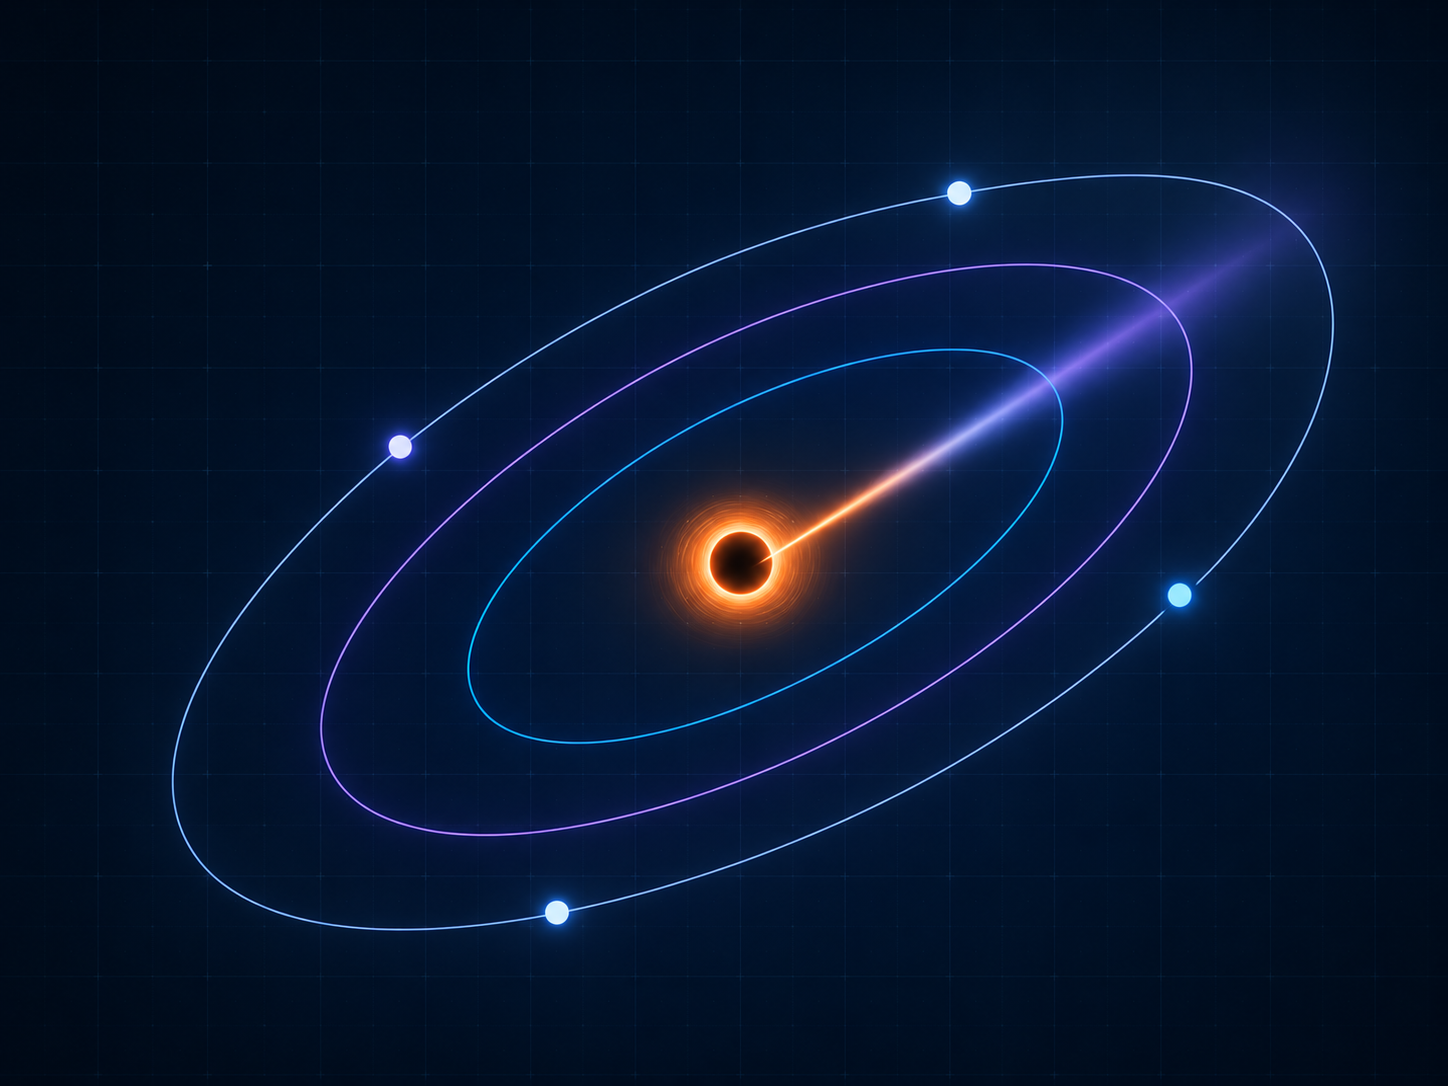
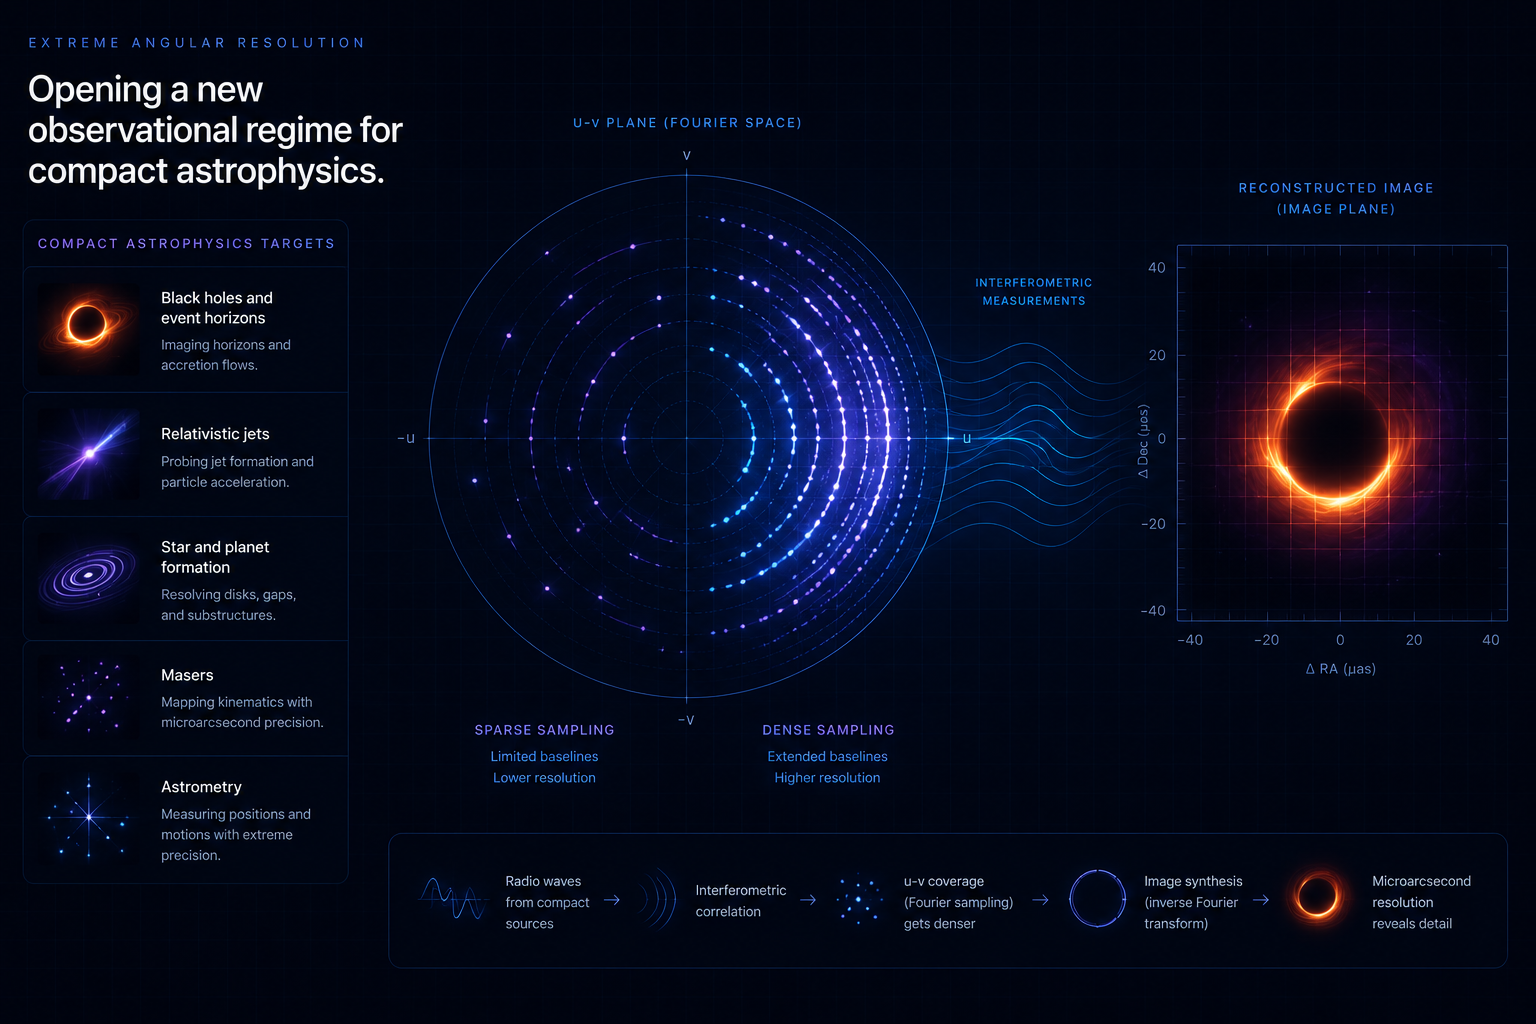
polish

diff --git a/science.html b/science.html
@@ -31,25 +31,12 @@
     </div>
   </section>
 
-  <section class="section science-signature">
-    <div class="science-signature-copy">
-      <div class="kicker">Extreme angular resolution</div>
-      <h2>Opening a new observational regime for compact astrophysics.</h2>
-      <p>
-        The near-term SHARP concept uses black-hole imaging as a focused science driver
-        for testing space-based very-long-baseline interferometry at millimetre and
-        sub-millimetre wavelengths.
-      </p>
-      <p>
-        The broader Space Array vision could eventually support a wider science programme:
-        sharper views of black holes, relativistic jets, compact disks, masers, astrometry,
-        and other compact structures that require angular resolution beyond Earth-sized baselines.
-      </p>
-    </div>
-
-    <div class="science-instrument-visual">
-      <img class="science-visual-img" src="assets/science-regime-visual.png" alt="">
-    </div>
+  <section class="section science-signature science-signature-image-only">
+    <img
+      class="science-regime-full-image"
+      src="assets/science-regime-visual.png"
+      alt="Opening a new observational regime for compact astrophysics"
+    >
   </section>
 
   <section class="grid section science-case-grid">

diff --git a/styles.css b/styles.css
@@ -2033,3 +2033,18 @@ ul.clean,
     height: 56px;
   }
 }
+
+/* Science page: use one full image for the observational-regime section */
+.science-signature-image-only {
+  display: block;
+  margin-top: 5rem;
+}
+
+.science-regime-full-image {
+  width: 100%;
+  height: auto;
+  display: block;
+  border-radius: 1.5rem;
+  border: 1px solid rgba(116, 192, 252, 0.18);
+  box-shadow: 0 28px 90px rgba(0, 0, 0, 0.42);
+}